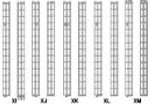
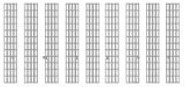
Cambios

diff --git a/bimbo-web/src/componentes/Mapa.js b/bimbo-web/src/componentes/Mapa.js
@@ -10,41 +10,34 @@ const Mapa = () => {
   };
 
   return (
-    <div className="mapa">
-      <div className="texto">
-        <h2>Mapa del Almacén</h2>
+    <div className="container">
+      <div className="ladoIzquierdo">
+        Sección en construcción...
       </div>
-      <div className="area">
-        <div className="seccion seccion1" onClick={() => handleSectionClick()}> Inbound 1 </div>
-        <div className="seccion seccion1" onClick={() => handleSectionClick()}> Inbound 2 </div>
-        <div className="seccion seccion1" onClick={() => handleSectionClick()}> Inbound 3 </div>
-        <div className="seccion seccion6" onClick={() => handleSectionClick()}> Outbound 1 </div>
-        <div className="seccion seccion4" onClick={() => handleSectionClick()}> Control de calidad 1 </div>
-        <div className="seccion seccion4" onClick={() => handleSectionClick()}> Control de calidad 2 </div>
-      </div>
-      <div className="area">
-        <div className="seccion seccion2" onClick={() => handleSectionClick()}> Almacenamiento 1 </div>
-        <div className="seccion seccion2" onClick={() => handleSectionClick()}> Almacenamiento 2 </div>
-        <div className="seccion seccion2" onClick={() => handleSectionClick()}> Almacenamiento 3 </div>
-        <div className="seccion seccion6" onClick={() => handleSectionClick()}> Outbound 2 </div>
-        <div className="seccion seccion0" onClick={() => handleSectionClick()}> Packing 1 </div>
-        <div className="seccion seccion0" onClick={() => handleSectionClick()}> Packing 2 </div>
-      </div>
-      <div className="area">
-        <div className="seccion seccion8" onClick={() => handleSectionClick()}> Picking 1 </div>
-        <div className="seccion seccion8" onClick={() => handleSectionClick()}> Picking 2 </div>
-        <div className="seccion seccion8" onClick={() => handleSectionClick()}> Picking 3 </div>
-        <div className="seccion seccion6" onClick={() => handleSectionClick()}> Outbound 3 </div>
-        <div className="seccion seccion3" onClick={() => handleSectionClick()}> Devoluciones 1 </div>
-        <div className="seccion seccion7" onClick={() => handleSectionClick()}> Cross-docking 1 </div>
-      </div>
-      <div className="area">
-        <div className="seccion seccion9" onClick={() => handleSectionClick()}> Área de productos dañados 1 </div>
-        <div className="seccion seccion9" onClick={() => handleSectionClick()}> Área de productos dañados 2 </div>
-        <div className="seccion seccion5" onClick={() => handleSectionClick()}> Carga y descarga 1 </div>
-        <div className="seccion seccion5" onClick={() => handleSectionClick()}> Carga y descarga 2 </div>
-        <div className="seccion seccion3" onClick={() => handleSectionClick()}> Devoluciones 2 </div>
-        <div className="seccion seccion7" onClick={() => handleSectionClick()}> Cross-docking 2 </div>
+      <div className="mapa">
+        <div className="texto">
+          <h2>Mapa del Almacén</h2>
+        </div>
+        <div className="area">
+          <div className="seccion seccion1" onClick={() => handleSectionClick()}> Picking 1 </div>
+          <div className="seccion seccion1" onClick={() => handleSectionClick()}> Picking 2 </div>
+          <div className="seccion seccion1" onClick={() => handleSectionClick()}> Picking 3 </div>
+        </div>
+        <div className="area">
+          <div className="seccion seccion2" onClick={() => handleSectionClick()}> Almacenamiento 1 </div>
+          <div className="seccion seccion2" onClick={() => handleSectionClick()}> Almacenamiento 2 </div>
+          <div className="seccion seccion2" onClick={() => handleSectionClick()}> Almacenamiento 3 </div>
+        </div>
+        <div className="area">
+          <div className="seccion seccion2" onClick={() => handleSectionClick()}> Almacenamiento 4 </div>
+          <div className="seccion seccion2" onClick={() => handleSectionClick()}> Almacenamiento 5 </div>
+          <div className="seccion seccion2" onClick={() => handleSectionClick()}> Almacenamiento 6 </div>
+        </div>
+        <div className="area">
+          <div className="seccion seccion3" onClick={() => handleSectionClick()}> Packing 1 </div>
+          <div className="seccion seccion4" onClick={() => handleSectionClick()}> Carga y descarga 1 </div>
+          <div className="seccion seccion4" onClick={() => handleSectionClick()}> Carga y descarga 2 </div>
+        </div>
       </div>
     </div>
   );

diff --git a/bimbo-web/src/componentes/Fecha.js b/bimbo-web/src/componentes/Fecha.js
@@ -1,9 +1,10 @@
+import "../styles/App.css";
 import React, { useState } from 'react';
 
 function Fecha() {
   const [date, setDate] = useState('');
   const [hour, setHour] = useState('');
-
+  const [depth, setDepth] = useState('');
 
   const hours = Array.from({ length: 24 }, (_, i) => {
     const hour = i.toString().padStart(2, '0') + ':00';
@@ -18,40 +19,61 @@ function Fecha() {
     setHour(e.target.value);
   };
 
+  const handleDepthChange = (e) => {
+    setDepth(e.target.value);
+  };
+
   const handleFilter = () => {
-    if (date && hour) {
+    if (date && hour && depth) {
       const dateTime = `${date}T${hour}:00`;
-      console.log("Fecha y hora seleccionada:", dateTime);
+      console.log("Fecha y hora y profundidad seleccionada:", dateTime, depth);
     } else {
-      console.log("Por favor selecciona fecha y hora.");
+      console.log("Por favor selecciona fecha, hora y profundidad.");
     }
   };
 
   return (
-    <div>
-      <label htmlFor="dateFilter">Selecciona Fecha:</label>
-      <input
-        type="date"
-        id="dateFilter"
-        value={date}
-        onChange={handleDateChange}
-      />
-
-      <label htmlFor="hourFilter">Selecciona Hora:</label>
-      <select
-        id="hourFilter"
-        value={hour}
-        onChange={handleHourChange}
-      >
-        <option value="">Selecciona una hora:</option>
-        {hours.map((hour) => (
-          <option key={hour} value={hour}>
-            {hour}
-          </option>
-        ))}
-      </select>
-
-      <button onClick={handleFilter}>
+    <div className="filtros">
+      <div>
+        <label style={{marginRight: "8px"}} htmlFor="dateFilter">Fecha:</label>
+        <input
+          type="date"
+          id="dateFilter"
+          value={date}
+          onChange={handleDateChange}
+        />
+      </div>
+      <div>
+        <label style={{marginRight: "8px"}} htmlFor="hourFilter">Hora:</label>
+        <select
+          id="hourFilter"
+          value={hour}
+          onChange={handleHourChange}
+        >
+          <option value="">Selecciona una hora:</option>
+          {hours.map((hour) => (
+            <option key={hour} value={hour}>
+              {hour}
+            </option>
+          ))}
+        </select>
+      </div>
+      <div>
+        <label style={{marginRight: "8px"}} htmlFor="depthFilter">Profundidad del tunel:</label>
+        <select
+          id="depthFilter"
+          value={depth}
+          onChange={handleDepthChange}
+        >
+          <option value="">Selecciona una profundidad:</option>
+          {Array.from({ length: 7 }, (_, i) => i + 1).map((depth) => (
+            <option key={depth} value={depth}>
+              {depth}
+            </option>
+          ))}
+        </select>
+      </div>
+      <button className="boton" onClick={handleFilter}>
         Filtrar
       </button>
     </div>

diff --git a/bimbo-web/src/styles/App.css b/bimbo-web/src/styles/App.css
@@ -147,16 +147,24 @@
   border-radius: 0.5rem;
 }
 
-.rack{
-  position:relative;
+.contenedor{
   display: flex;
   flex-direction: column;
-  justify-content: center;
+  align-items: center;
+  justify-content: space-between;
+  margin: 10px;
+  overflow: hidden;
+}
+
+.rack{
+  position: relative;
+  display: flex;
+  flex-direction: column;
+  justify-content: space-between;
   align-items: center;
   width: 100%;
-  height: 100vh;
-  justify-content: space-between;
-  margin-top: 40px;
+  height: 90vh;
+  margin: 10px;
 }
 
 .estante {
@@ -166,10 +174,9 @@
   max-width: 1416px;
   width: 100%;
   margin: 10px;
-  background-color:rgba(207, 61, 52);
+  background-color:rgb(55, 52, 207);
   height: 30px;
   z-index: 1;
-  margin: 30px 0;
 }
 
 .background-cols {
@@ -177,7 +184,7 @@
   top: 0;
   left: 0;
   width: 100%;
-  height: 100%;
+  height: 90vh;
   display: flex;
   justify-content: space-between;
   z-index: 0;
@@ -185,8 +192,8 @@
 
 .col {
   width: 30px;
-  background-color: rgba(100, 100, 100);
-  height: 100%;
+  background-color: rgb(118, 118, 118);
+  height: 87vh;
   margin: 0 40px;
 }
 
@@ -232,6 +239,24 @@
   display: flex;
   justify-content: center;
   box-shadow: 5px 5px 4px rgba(0, 0, 0, 0.1);
+}
+
+.filtros{
+  display: flex;
+  justify-content: space-between;
+  align-items: center;
+  width: 850px;
+}
+
+.boton{
+  cursor: pointer;
+  background-color: #FFFFFF;
+  border-radius: 10px;
+  width: fit-content;
+  display: flex;
+  justify-content: center;
+  box-shadow: 5px 5px 4px rgba(0, 0, 0, 0.1);
+  font-size: 15px;
 }
 
 .informacion{

diff --git a/bimbo-web/src/styles/Mapa.css b/bimbo-web/src/styles/Mapa.css
@@ -1,13 +1,32 @@
+.container {
+    display: flex;
+    width: 100%;
+    height: 100vh;
+}
+
+.ladoIzquierdo {
+    width: 40%;
+    padding: 20px;
+    background-color: #f0f0f0;
+    display: flex;
+    flex-direction: column;
+    justify-content: center;
+    align-items: center;
+    font-size: 2rem;
+  }
+
 .mapa {
     display: flex;
     flex-direction: column;
     align-items: center;
+    justify-content: center;
+    width: 60%;
     overflow: hidden;
 }
 
 .area {
     display: grid;
-    grid-template-columns: repeat(6, 1fr);
+    grid-template-columns: repeat(3, 1fr);
     gap: 25px;
 }
 
@@ -53,10 +72,6 @@
     box-shadow: 0 2px 10px rgba(0, 0, 0, 0.6);
 }
 
-.seccion0 {
-    background-image: url('../img/mapa_sec0.jpg');
-}
-
 .seccion1 {
     background-image: url('../img/mapa_sec1.jpg');
 }
@@ -71,24 +86,4 @@
 
 .seccion4 {
     background-image: url('../img/mapa_sec4.jpg');
-}
-
-.seccion5 {
-    background-image: url('../img/mapa_sec5.jpg');
-}
-
-.seccion6 {
-    background-image: url('../img/mapa_sec6.jpg');
-}
-
-.seccion7 {
-    background-image: url('../img/mapa_sec7.jpg');
-}
-
-.seccion8 {
-    background-image: url('../img/mapa_sec8.jpg');
-}
-
-.seccion9 {
-    background-image: url('../img/mapa_sec9.jpg');
 }

diff --git a/bimbo-web/src/componentes/Rack.js b/bimbo-web/src/componentes/Rack.js
@@ -18,11 +18,13 @@ const Rack = () => {
     };
 
     return (
-        <div className='rack'>
-            <Link to="/almacen" className='btn-back'>
-                <IoIosArrowBack size={34} />
-            </Link>
-            <DateTimeFilter></DateTimeFilter>
+        <div className="contenedor">
+            <div style={{margin: "10px"}}>
+                <Link to="/almacen" className='btn-back'>
+                    <IoIosArrowBack size={34} />
+                </Link>
+                <DateTimeFilter/>
+            </div>
             <div className={`rack ${showInfo ? 'blur' : ''}`}>
             <div className= 'background-cols'>
                 <div className='col'></div>
@@ -59,18 +61,11 @@ const Rack = () => {
                 <div className ='caja' onClick={handleBoxClick}><div className='etiqueta'></div></div>
                 <div className ='caja' onClick={handleBoxClick}><div className='etiqueta'></div></div>
             </div>
-
-
-
             <div className='estante'>
             </div>
-
+            {showInfo && <Info onClose={handleCloseInfo} />}
+            </div>
         </div>
-
-        {showInfo && <Info onClose={handleCloseInfo} />}
-        </div>
-
-
     );
 };
 

diff --git a/bimbo-web/src/App.js b/bimbo-web/src/App.js
@@ -16,10 +16,10 @@ function App() {
   ]);
 
   const [locations, ] = useState([
-    ["Pasillo AA", "Pasillo AB", "Pasillo AC", "Pasillo AD", "Pasillo AE", "Pasillo AF"],
-    ["Pasillo AG", "Pasillo AH", "Pasillo AI", "Pasillo AJ", "Pasillo AK", "Pasillo AL"],
-    ["Pasillo AM", "Pasillo AN", "Pasillo AO", "Pasillo AP", "Pasillo AQ", "Pasillo AR"],
-    ["Pasillo AS", "Pasillo AT", "Pasillo AU", "Pasillo AV", "Pasillo AW", "Pasillo AX"],
+    ["Pasillo A1", "Pasillo B1", "Pasillo C1", "Pasillo D1", "Pasillo E1", "Pasillo F1"],
+    ["Pasillo A2", "Pasillo B2", "Pasillo C2", "Pasillo D2", "Pasillo E2", "Pasillo F2"],
+    ["Pasillo A3", "Pasillo B3", "Pasillo C3", "Pasillo D3", "Pasillo E3", "Pasillo F3"],
+    ["Pasillo A4", "Pasillo B4", "Pasillo C4", "Pasillo D4", "Pasillo E4", "Pasillo F4"],
   ]);
 
   const [info, setInfo] = useState([

diff --git a/bimbo-web/src/componentes/Almacen.js b/bimbo-web/src/componentes/Almacen.js
@@ -16,7 +16,7 @@ const Almacen = ({ almacenValues, selectedOption, setIsHovered, locations, info,
             let extra = '';
 
             if (selectedOption === "Cantidad de producto en racks") {
-              extra = " cajas almacenadas";
+              extra = " palletes almacenados";
             } else if (selectedOption === "Cantidad de incidencias") {
               extra = " incidencias reportadas";
             } else {
